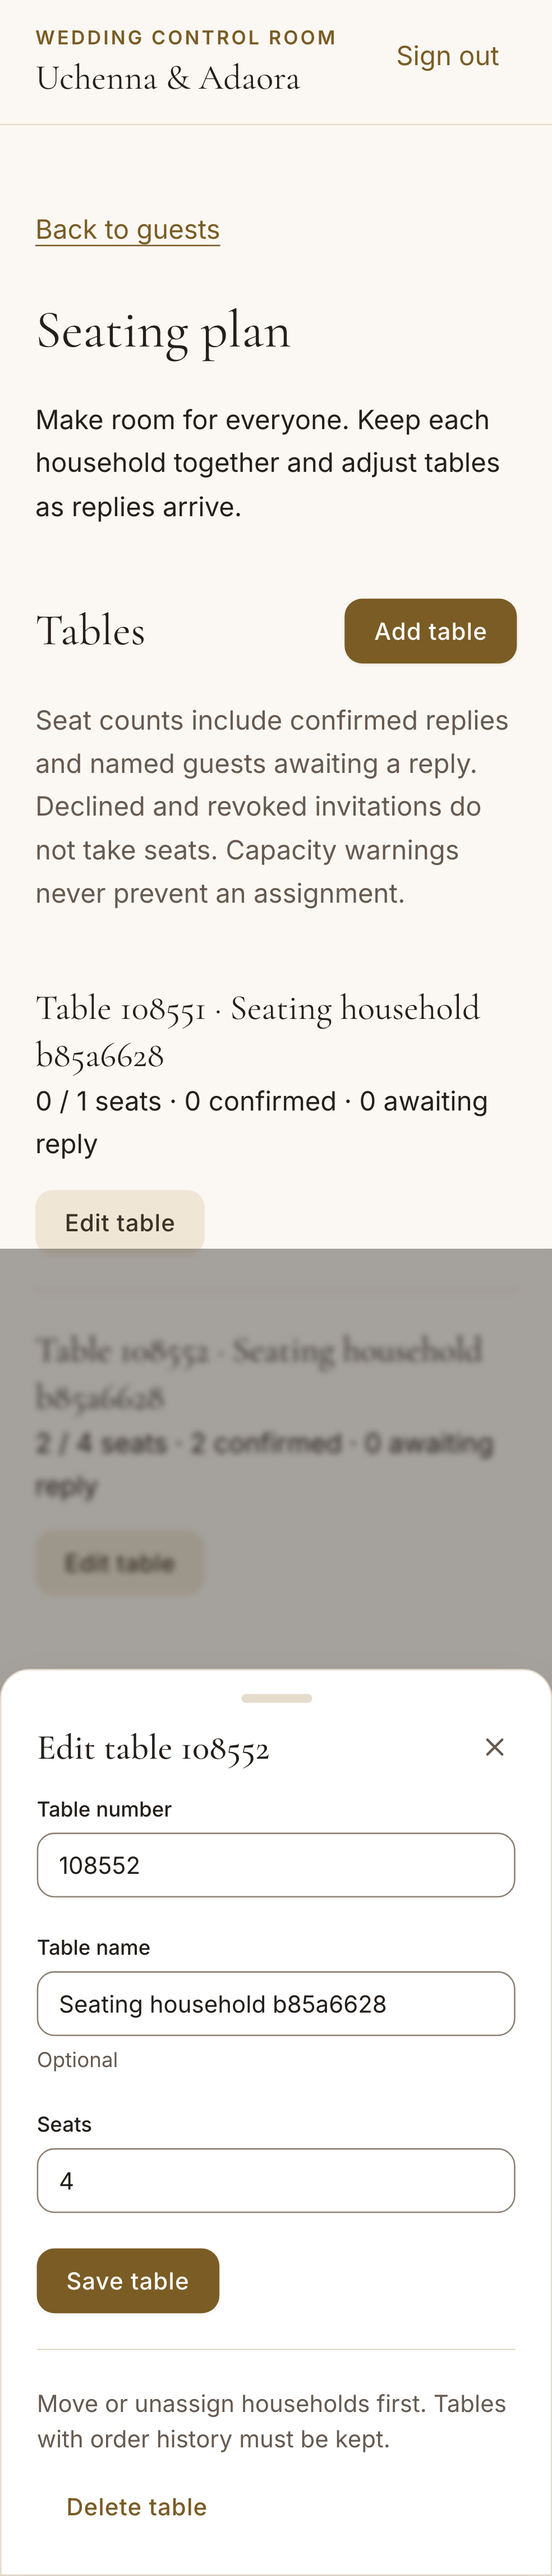
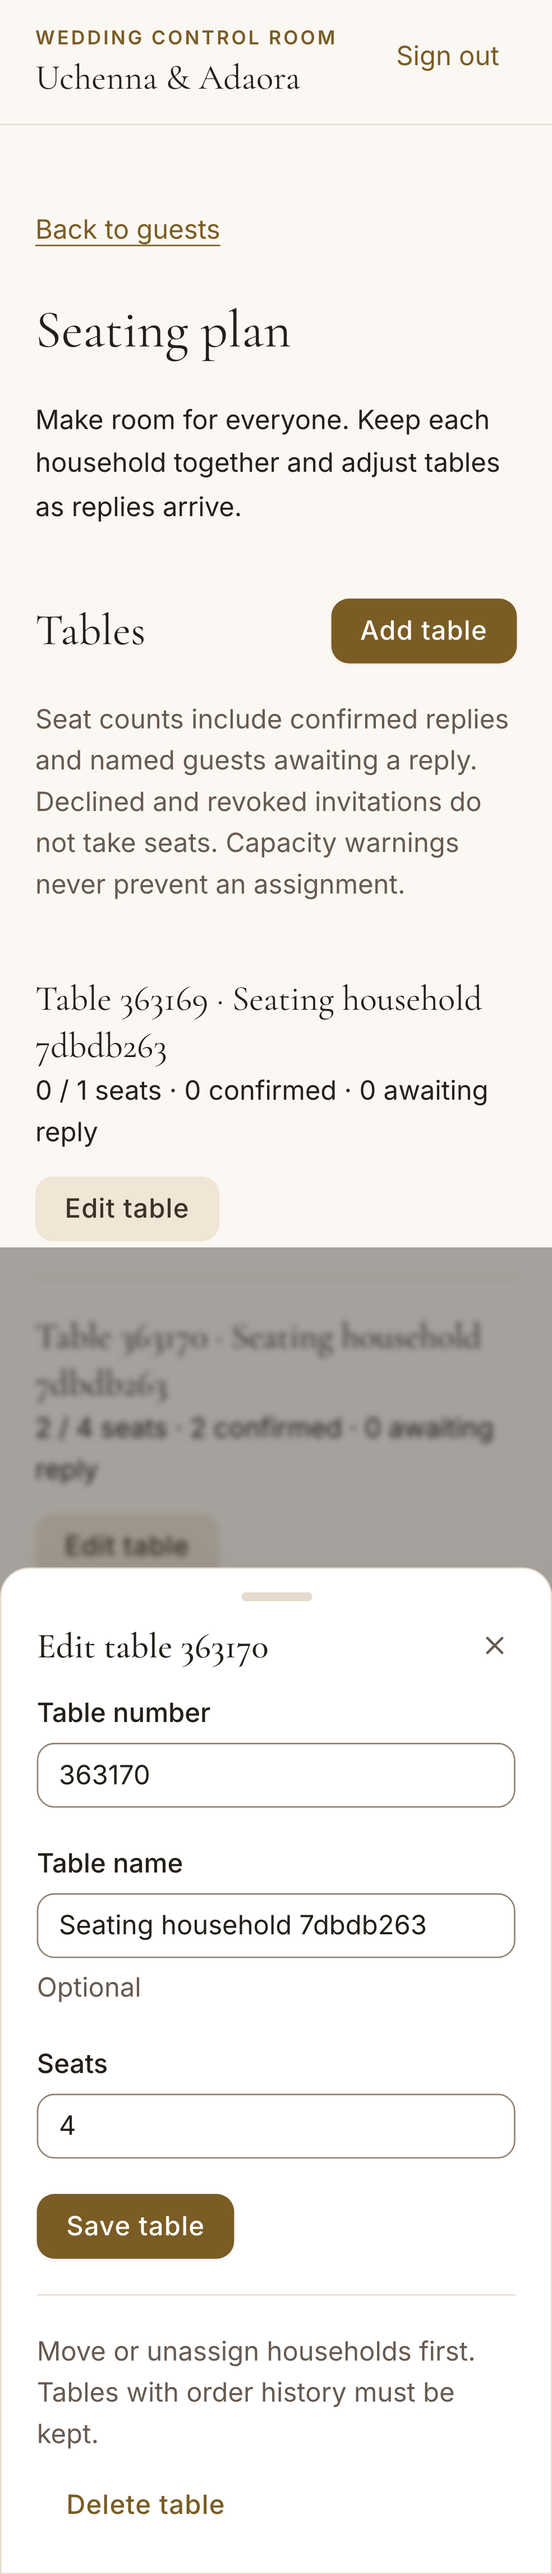
TICKET-093: enforce readable admin form typography

diff --git a/e2e/admin-seating.spec.ts b/e2e/admin-seating.spec.ts
@@ -140,9 +140,45 @@ test.describe("seating admin", () => {
     for (const theme of themes) {
       await applyTheme(page, theme);
       expect(await scanA11y(page)).toEqual([]);
+      expect(
+        await page
+          .locator(
+            "main button, main input, main select, main label, dialog button, dialog input, dialog select, dialog label",
+          )
+          .evaluateAll((elements) =>
+            elements
+              .filter((element) => {
+                const box = element.getBoundingClientRect();
+                return (
+                  box.width > 0 &&
+                  box.height > 0 &&
+                  Number.parseFloat(getComputedStyle(element).fontSize) < 18
+                );
+              })
+              .map((element) => element.textContent),
+          ),
+      ).toEqual([]);
       await page.screenshot({ path: `${folder}/${theme.id}-seating.png`, fullPage: true });
       await assign.click();
       expect(await scanA11y(page)).toEqual([]);
+      expect(
+        await page
+          .locator(
+            "main button, main input, main select, main label, dialog button, dialog input, dialog select, dialog label",
+          )
+          .evaluateAll((elements) =>
+            elements
+              .filter((element) => {
+                const box = element.getBoundingClientRect();
+                return (
+                  box.width > 0 &&
+                  box.height > 0 &&
+                  Number.parseFloat(getComputedStyle(element).fontSize) < 18
+                );
+              })
+              .map((element) => element.textContent),
+          ),
+      ).toEqual([]);
       await page.screenshot({ path: `${folder}/${theme.id}-assignment.png`, fullPage: true });
       await page.keyboard.press("Escape");
       await expect(assign).toBeFocused();
@@ -159,6 +195,24 @@ test.describe("seating admin", () => {
     for (const theme of themes) {
       await applyTheme(page, theme);
       expect(await scanA11y(page)).toEqual([]);
+      expect(
+        await page
+          .locator(
+            "main button, main input, main select, main label, dialog button, dialog input, dialog select, dialog label",
+          )
+          .evaluateAll((elements) =>
+            elements
+              .filter((element) => {
+                const box = element.getBoundingClientRect();
+                return (
+                  box.width > 0 &&
+                  box.height > 0 &&
+                  Number.parseFloat(getComputedStyle(element).fontSize) < 18
+                );
+              })
+              .map((element) => element.textContent),
+          ),
+      ).toEqual([]);
       await page.screenshot({ path: `${folder}/${theme.id}-edit.png`, fullPage: true });
     }
     await page.getByLabel("Table number", { exact: true }).fill(String(renamed));

diff --git a/src/modules/admin/components/seating-editor.tsx b/src/modules/admin/components/seating-editor.tsx
@@ -245,7 +245,7 @@ export function SeatingEditor({ plan }: { plan: SeatingPlan }) {
     party.name.toLocaleLowerCase().includes(query.trim().toLocaleLowerCase()),
   );
   return (
-    <div className="mt-12 space-y-12">
+    <div className="mt-12 space-y-12 [&_button]:text-lg [&_input]:text-lg [&_label]:text-lg [&_p]:text-lg [&_select]:text-lg">
       {notice && (
         <p role="status" tabIndex={-1} ref={result}>
           {notice}

diff --git a/docs/plans/TICKET-093-pr.md b/docs/plans/TICKET-093-pr.md
@@ -34,12 +34,12 @@ immediately reads the current assignment, including renamed table numbers.
   reply/meal preservation, stale writes, order-history/deletion guards, CRUD validation
   and two-connection capacity warnings. All13 focused tests pass after integrating
   develop `886c46cc2d965fac2a6a4d5e4e0f1b0f4c142086` and unchanged0020 migration.
-- Two production-browser journeys pass at375/1280px (21.6s): real email/TOTP sign-in,
+- Two production-browser journeys pass at375/1280px (16.7s on the final typography run): real email/TOTP sign-in,
   anonymous redirect, keyboard assignment, delayed-save Escape/Close protection,
   live signed-pass changes, delete confirmation/cancel/return focus, table deletion.
   -24 axe scans across four themes × two widths × list/assignment/edit states pass.
   -24 screenshots in `docs/reviews/TICKET-093/screenshots/`; no overflow at375/600/768/1280,
-  main-page targets at least44px, reduced motion exercised, initial CLS zero.
+  main-page targets at least44px, reduced motion exercised, initial CLS zero. Computed sizes of all visible form labels and controls are at least18px in each reviewed state.
 
 # Verification
 

diff --git a/docs/handoffs/TICKET-093.md b/docs/handoffs/TICKET-093.md
@@ -39,3 +39,7 @@ Integrated develop886c46cc (051+090); preserved create-invitation links and all 
 ## 2026-11-09 ready for CI
 
 Independent source/visual review clean at9665126d after all24screenshots inspected. Integrated CSV developb5fa06c9 without conflicts; focused route/export/seating tests rerun. Final quick lint/types pass (no affected tests selected for finalUI files); explicit prior13tests and2browserjourneys retained. Publish through normal t:pr, then wait exact-head fullCI before merge. No production operation.
+
+## 2026-11-09 admin typography correction
+
+Reopened viaCLI to enforce the canonical18pxadmincontrolrule rather than shared16pxdefaults. Scoped editorstyles nowcoverbuttons/inputs/selects/labels/bodycopy. Added actualcomputedfont-size browser assertions alongside24axechecks; bothjourneyspass16.7s and build/quicklint/typespass.24screenshotsregenerated forvisualre-review. OwnDBstoppedagainbackuptrue(projectwedding-d67592a8d3bc), slotreleased182. Nootherownerstacks touched.
